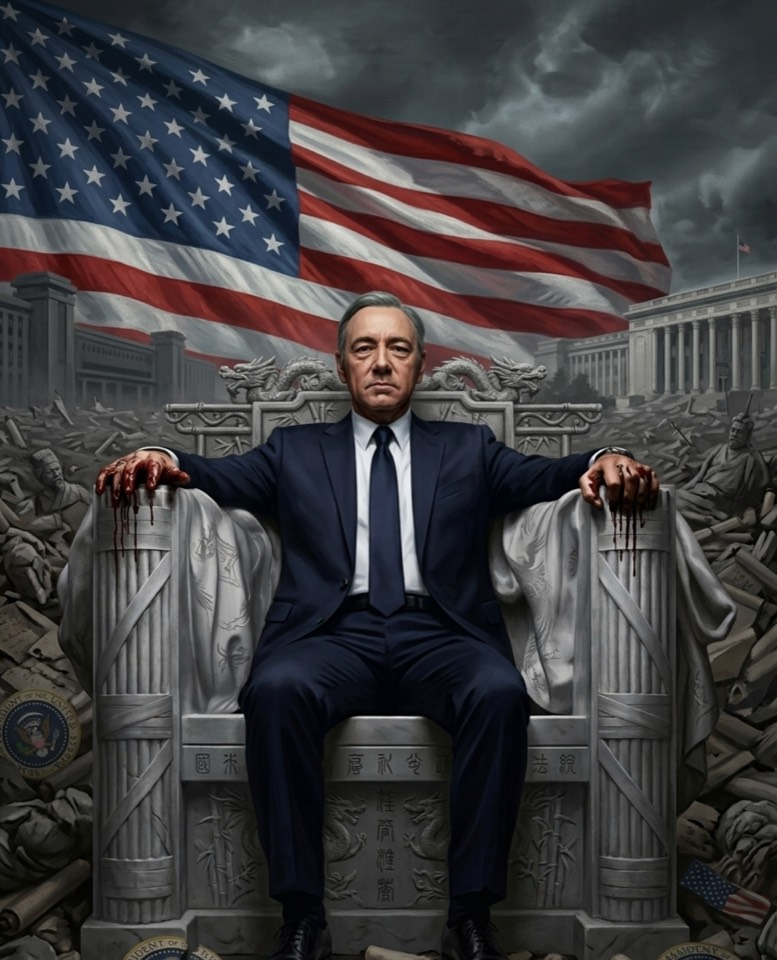
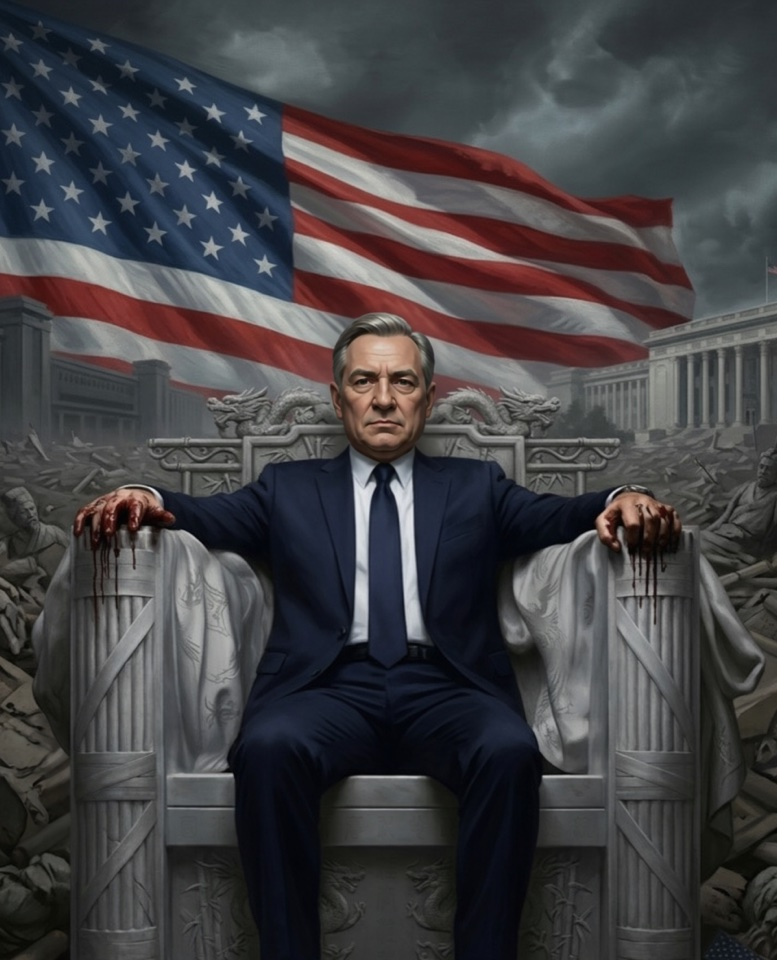
build(v0.12): package.sh 追加 itch.io 上传包（index.html 在 zip 根目录）+ 用户重绘的 hero.jpg
- package.sh 打完 dist 后顺手在项目根产出 path-to-power-v0.12.zip：在 dist/ 内执行 zip，
  条目名即相对路径，解压出来直接是 index.html + engine/ + content/ + assets/，不套一层文件夹
  —— itch 的「在浏览器中游玩」就要求这个结构，套了文件夹是白屏。
- 打完立刻验条目表（根目录必须有 index.html、不许出现 dist/ 前缀），不合格直接退出码 1。
- zip 是追加语义，每次先 rm -f 自己算出来的那一个文件名（护栏：必须是项目根 + path-to-power- 前缀），
  否则包会越打越大。
- 新增 --no-zip（只刷 dist）；VERSION 常量在脚本顶部，发新版时改它换压缩包文件名。
- .gitignore 排除 /path-to-power-*.zip（产物不入库）。
- 文档随迁：README 发布段、DEVELOPMENT-GUIDE 目录树/上手/检查清单/工具矩阵四处。
- dev+dist assets/hero.jpg：用户重绘的首屏图（旧图不满意），随本次打包一起入库。

验证：完整发布跑（validate 30 局 → dist 303 文件 → zip）exit=0；zip 解压后根目录即 index.html、
184 个 index.html 有效引用零缺失、无绝对路径/符号链接、unzip -t 无错、重打两遍字节数稳定（无追加膨胀）。

diff --git a/dist/docs/DEVELOPMENT-GUIDE.md b/dist/docs/DEVELOPMENT-GUIDE.md
@@ -143,7 +143,7 @@
 │   ├── assets/events/        事件配图的照片（文件名 = 类型 key.jpg，见 §5.12）
 │   └── tools/                全部校验/打包/度量脚本（§9.3 工具矩阵）
 │       ├── validate.js       ★ 一键校验（默认 20 局），零依赖
-│       ├── package.sh        ★ 一键发布：validate(30 局) + 打包 dist/（docs/ 一并进 dist）
+│       ├── package.sh        ★ 一键发布：validate(30 局) + 打包 dist/（docs/ 一并进 dist）+ 出 itch.io 上传包
 │       ├── gen-manifest.js   ★ 自动登记内容包/i18n 镜像，重写 index.html 两个托管区
 │       ├── smoke-ui.js       ★ UI 冒烟（jsdom 真跑点击流程），需 jsdom
 │       ├── audit.js          全面事件审计（一览 / flag 闭环 / 链 / 时代×三值性覆盖 / 闸门自洽）
@@ -157,6 +157,7 @@
 │       ├── preview-photos.html  配图预览页（浏览器打开）
 │       └── out/              工具产物目录（草稿/截图，非事实源）
 ├── dist/                     ★ package.sh 的产物：可分发游戏本体（双击 index.html 即玩）
+├── path-to-power-v0.12.zip   ★ package.sh 的产物：itch.io 上传包（index.html 在压缩包根目录，不入库）
 ├── docs/                     DESIGN / CONTENT-SCHEMA / DEVELOPMENT-GUIDE / I18N / PARALLEL-CONTENT-WORK
 ├── README.md · CONTRIBUTING.md
 └── deprecated/               ★ pre-1980 死内容冻结归档（1912/1929/1941… 时代包与快照，不再加载）
@@ -173,6 +174,7 @@
 ```bash
 # 1. 直接玩：双击 dev/index.html（或 dist/index.html；无需构建、无需 npm install）
 #    要分发给别人玩：bash dev/tools/package.sh 之后把 dist/ 整个文件夹发出去
+#    要传 itch.io：同一条命令顺手在项目根产出 path-to-power-v0.12.zip（解压即 index.html，不套文件夹）
 
 # 2. 改完自检（数据 / 逻辑 / 生涯模拟 / 引擎-内容契约）
 cd dev && node tools/validate.js            # 默认 20 局快速档；发布口径 package.sh 会跑 30 局
@@ -906,7 +908,7 @@ choices: [
 - [ ] 契约有变化 → 已更新 `docs/CONTENT-SCHEMA.md`（i18n 相关更新 `docs/I18N.md`）
 - [ ] 破坏性变更 → 已升 `POTUS.VERSION` 主版本 + 在 git 提交说明写迁移指南
 - [ ] 已有内容包**无需修改**即可继续运行（向后兼容自测）
-- [ ] 发布 → `bash dev/tools/package.sh`（自检 + 重打 dist/，docs/ 随包进 dist）
+- [ ] 发布 → `bash dev/tools/package.sh`（自检 + 重打 dist/，docs/ 随包进 dist；同时在项目根产出 itch.io 上传包 `path-to-power-<版本>.zip`）
 
 ### 8.3 冲突处理
 - 内容需要新机制 → 提需求（描述场景 + 期望字段形状）→ 引擎侧设计并更新契约 → 确认后实现
@@ -969,7 +971,7 @@ cd <game>/dev && NODE_PATH=~/.workbuddy/binaries/node/workspace/node_modules nod
 | 工具 | 什么时候跑 | 一句话 |
 |---|---|---|
 | `validate.js` | 每次提交 | 一键校验 + 生涯模拟（默认 20 局），§9.1 |
-| `package.sh` | 发布 | `bash dev/tools/package.sh` = validate 30 局 + 同步 dist/（含把仓库根 docs/ 复制进 dist/docs；`--full`=300 局深验、`--fast`=只打包、`--check`=只自检）。**dist/ 是产物，禁止手改** |
+| `package.sh` | 发布 | `bash dev/tools/package.sh` = validate 30 局 + 同步 dist/（含把仓库根 docs/ 复制进 dist/docs）+ 在项目根打 itch.io 上传包 `path-to-power-$VERSION.zip`（`VERSION` 常量在脚本顶部，发新版时改）。压缩包**根目录直接是 index.html**（脚本会验条目表，套一层文件夹的包在 itch 上是白屏）；`--full`=300 局深验、`--fast`=只打包、`--check`=只自检、`--no-zip`=不出压缩包。**dist/ 与 zip 都是产物，禁止手改；zip 不入库** |
 | `gen-manifest.js` | 新增内容/i18n 文件后 | 重写 index.html 两个托管区；`--check` 可当门禁 |
 | `smoke-ui.js` | 动过 UI/机制 | jsdom 真点击，§9.2 |
 | `audit.js` | 内容体检 | 五节报告：一览 / flag 供需闭环 / after 链完整性 / 时代×三值性覆盖 / 财富闸门自洽 |
@@ -1017,7 +1019,7 @@ cd <game>/dev && NODE_PATH=~/.workbuddy/binaries/node/workspace/node_modules nod
 
 ## 10.5 现行机制速览（v0.5—v0.12 新接手必读）
 
-**目录四层结构（先记住这个）**：项目根 = `dev/`（开发区，引擎+内容+工具）+ `dist/`（`bash dev/tools/package.sh` 的产物，含随包的 `dist/docs/`）+ `docs/`（文档在仓库根，不在 dev/ 里）+ `deprecated/`（pre-1980 冻结归档）。改完代码一条命令：`bash dev/tools/package.sh`（先自检、全部通过后才打包）。
+**目录四层结构（先记住这个）**：项目根 = `dev/`（开发区，引擎+内容+工具）+ `dist/`（`bash dev/tools/package.sh` 的产物，含随包的 `dist/docs/`）+ `docs/`（文档在仓库根，不在 dev/ 里）+ `deprecated/`（pre-1980 冻结归档）。同一条命令还会在项目根产出 itch.io 上传包 `path-to-power-<版本>.zip`（与 dist 同内容、index.html 在压缩包根目录，`.gitignore` 已排除）。改完代码一条命令：`bash dev/tools/package.sh`（先自检、全部通过后才打包）。
 
 | 机制 | 内容包怎么写 | 引擎在哪 |
 |---|---|---|

diff --git a/docs/DEVELOPMENT-GUIDE.md b/docs/DEVELOPMENT-GUIDE.md
@@ -143,7 +143,7 @@
 │   ├── assets/events/        事件配图的照片（文件名 = 类型 key.jpg，见 §5.12）
 │   └── tools/                全部校验/打包/度量脚本（§9.3 工具矩阵）
 │       ├── validate.js       ★ 一键校验（默认 20 局），零依赖
-│       ├── package.sh        ★ 一键发布：validate(30 局) + 打包 dist/（docs/ 一并进 dist）
+│       ├── package.sh        ★ 一键发布：validate(30 局) + 打包 dist/（docs/ 一并进 dist）+ 出 itch.io 上传包
 │       ├── gen-manifest.js   ★ 自动登记内容包/i18n 镜像，重写 index.html 两个托管区
 │       ├── smoke-ui.js       ★ UI 冒烟（jsdom 真跑点击流程），需 jsdom
 │       ├── audit.js          全面事件审计（一览 / flag 闭环 / 链 / 时代×三值性覆盖 / 闸门自洽）
@@ -157,6 +157,7 @@
 │       ├── preview-photos.html  配图预览页（浏览器打开）
 │       └── out/              工具产物目录（草稿/截图，非事实源）
 ├── dist/                     ★ package.sh 的产物：可分发游戏本体（双击 index.html 即玩）
+├── path-to-power-v0.12.zip   ★ package.sh 的产物：itch.io 上传包（index.html 在压缩包根目录，不入库）
 ├── docs/                     DESIGN / CONTENT-SCHEMA / DEVELOPMENT-GUIDE / I18N / PARALLEL-CONTENT-WORK
 ├── README.md · CONTRIBUTING.md
 └── deprecated/               ★ pre-1980 死内容冻结归档（1912/1929/1941… 时代包与快照，不再加载）
@@ -173,6 +174,7 @@
 ```bash
 # 1. 直接玩：双击 dev/index.html（或 dist/index.html；无需构建、无需 npm install）
 #    要分发给别人玩：bash dev/tools/package.sh 之后把 dist/ 整个文件夹发出去
+#    要传 itch.io：同一条命令顺手在项目根产出 path-to-power-v0.12.zip（解压即 index.html，不套文件夹）
 
 # 2. 改完自检（数据 / 逻辑 / 生涯模拟 / 引擎-内容契约）
 cd dev && node tools/validate.js            # 默认 20 局快速档；发布口径 package.sh 会跑 30 局
@@ -906,7 +908,7 @@ choices: [
 - [ ] 契约有变化 → 已更新 `docs/CONTENT-SCHEMA.md`（i18n 相关更新 `docs/I18N.md`）
 - [ ] 破坏性变更 → 已升 `POTUS.VERSION` 主版本 + 在 git 提交说明写迁移指南
 - [ ] 已有内容包**无需修改**即可继续运行（向后兼容自测）
-- [ ] 发布 → `bash dev/tools/package.sh`（自检 + 重打 dist/，docs/ 随包进 dist）
+- [ ] 发布 → `bash dev/tools/package.sh`（自检 + 重打 dist/，docs/ 随包进 dist；同时在项目根产出 itch.io 上传包 `path-to-power-<版本>.zip`）
 
 ### 8.3 冲突处理
 - 内容需要新机制 → 提需求（描述场景 + 期望字段形状）→ 引擎侧设计并更新契约 → 确认后实现
@@ -969,7 +971,7 @@ cd <game>/dev && NODE_PATH=~/.workbuddy/binaries/node/workspace/node_modules nod
 | 工具 | 什么时候跑 | 一句话 |
 |---|---|---|
 | `validate.js` | 每次提交 | 一键校验 + 生涯模拟（默认 20 局），§9.1 |
-| `package.sh` | 发布 | `bash dev/tools/package.sh` = validate 30 局 + 同步 dist/（含把仓库根 docs/ 复制进 dist/docs；`--full`=300 局深验、`--fast`=只打包、`--check`=只自检）。**dist/ 是产物，禁止手改** |
+| `package.sh` | 发布 | `bash dev/tools/package.sh` = validate 30 局 + 同步 dist/（含把仓库根 docs/ 复制进 dist/docs）+ 在项目根打 itch.io 上传包 `path-to-power-$VERSION.zip`（`VERSION` 常量在脚本顶部，发新版时改）。压缩包**根目录直接是 index.html**（脚本会验条目表，套一层文件夹的包在 itch 上是白屏）；`--full`=300 局深验、`--fast`=只打包、`--check`=只自检、`--no-zip`=不出压缩包。**dist/ 与 zip 都是产物，禁止手改；zip 不入库** |
 | `gen-manifest.js` | 新增内容/i18n 文件后 | 重写 index.html 两个托管区；`--check` 可当门禁 |
 | `smoke-ui.js` | 动过 UI/机制 | jsdom 真点击，§9.2 |
 | `audit.js` | 内容体检 | 五节报告：一览 / flag 供需闭环 / after 链完整性 / 时代×三值性覆盖 / 财富闸门自洽 |
@@ -1017,7 +1019,7 @@ cd <game>/dev && NODE_PATH=~/.workbuddy/binaries/node/workspace/node_modules nod
 
 ## 10.5 现行机制速览（v0.5—v0.12 新接手必读）
 
-**目录四层结构（先记住这个）**：项目根 = `dev/`（开发区，引擎+内容+工具）+ `dist/`（`bash dev/tools/package.sh` 的产物，含随包的 `dist/docs/`）+ `docs/`（文档在仓库根，不在 dev/ 里）+ `deprecated/`（pre-1980 冻结归档）。改完代码一条命令：`bash dev/tools/package.sh`（先自检、全部通过后才打包）。
+**目录四层结构（先记住这个）**：项目根 = `dev/`（开发区，引擎+内容+工具）+ `dist/`（`bash dev/tools/package.sh` 的产物，含随包的 `dist/docs/`）+ `docs/`（文档在仓库根，不在 dev/ 里）+ `deprecated/`（pre-1980 冻结归档）。同一条命令还会在项目根产出 itch.io 上传包 `path-to-power-<版本>.zip`（与 dist 同内容、index.html 在压缩包根目录，`.gitignore` 已排除）。改完代码一条命令：`bash dev/tools/package.sh`（先自检、全部通过后才打包）。
 
 | 机制 | 内容包怎么写 | 引擎在哪 |
 |---|---|---|

diff --git a/README.md b/README.md
@@ -74,8 +74,11 @@
 要打包成独立分发给别人：
 
 ```bash
-bash dev/tools/package.sh   # 一键发布：先自检，通过后刷新 dist/（把 dist/ 整个文件夹发出去即可）
+bash dev/tools/package.sh   # 一键发布：先自检，通过后刷新 dist/ 并打出 itch.io 上传包 path-to-power-v0.12.zip
 ```
+
+`dist/` 整个文件夹发出去即可；根目录那个 zip 是给 itch.io 用的 —— **index.html 直接躺在压缩包根目录**（不套一层文件夹），
+上传后勾「This file will be played in the browser」就能在网页里直接玩。zip 是产物、不入库，`--no-zip` 可跳过。
 
 ### 建角（demo 版）：三步向导 —— 难度 → 天赋抽卡 → 自由点
 
@@ -124,7 +127,7 @@ node dev/tools/validate.js --games=300      # 全量平衡口径
 node dev/tools/audit.js
 ```
 
-**改完代码一条命令搞定**：`bash dev/tools/package.sh`（先跑自检、全部通过后才刷新 dist）。只想自检用 `bash dev/tools/package.sh --check`。
+**改完代码一条命令搞定**：`bash dev/tools/package.sh`（先跑自检、全部通过后才刷新 dist 并打 itch.io 包）。只想自检用 `bash dev/tools/package.sh --check`，不想出压缩包加 `--no-zip`。
 
 ---
 
